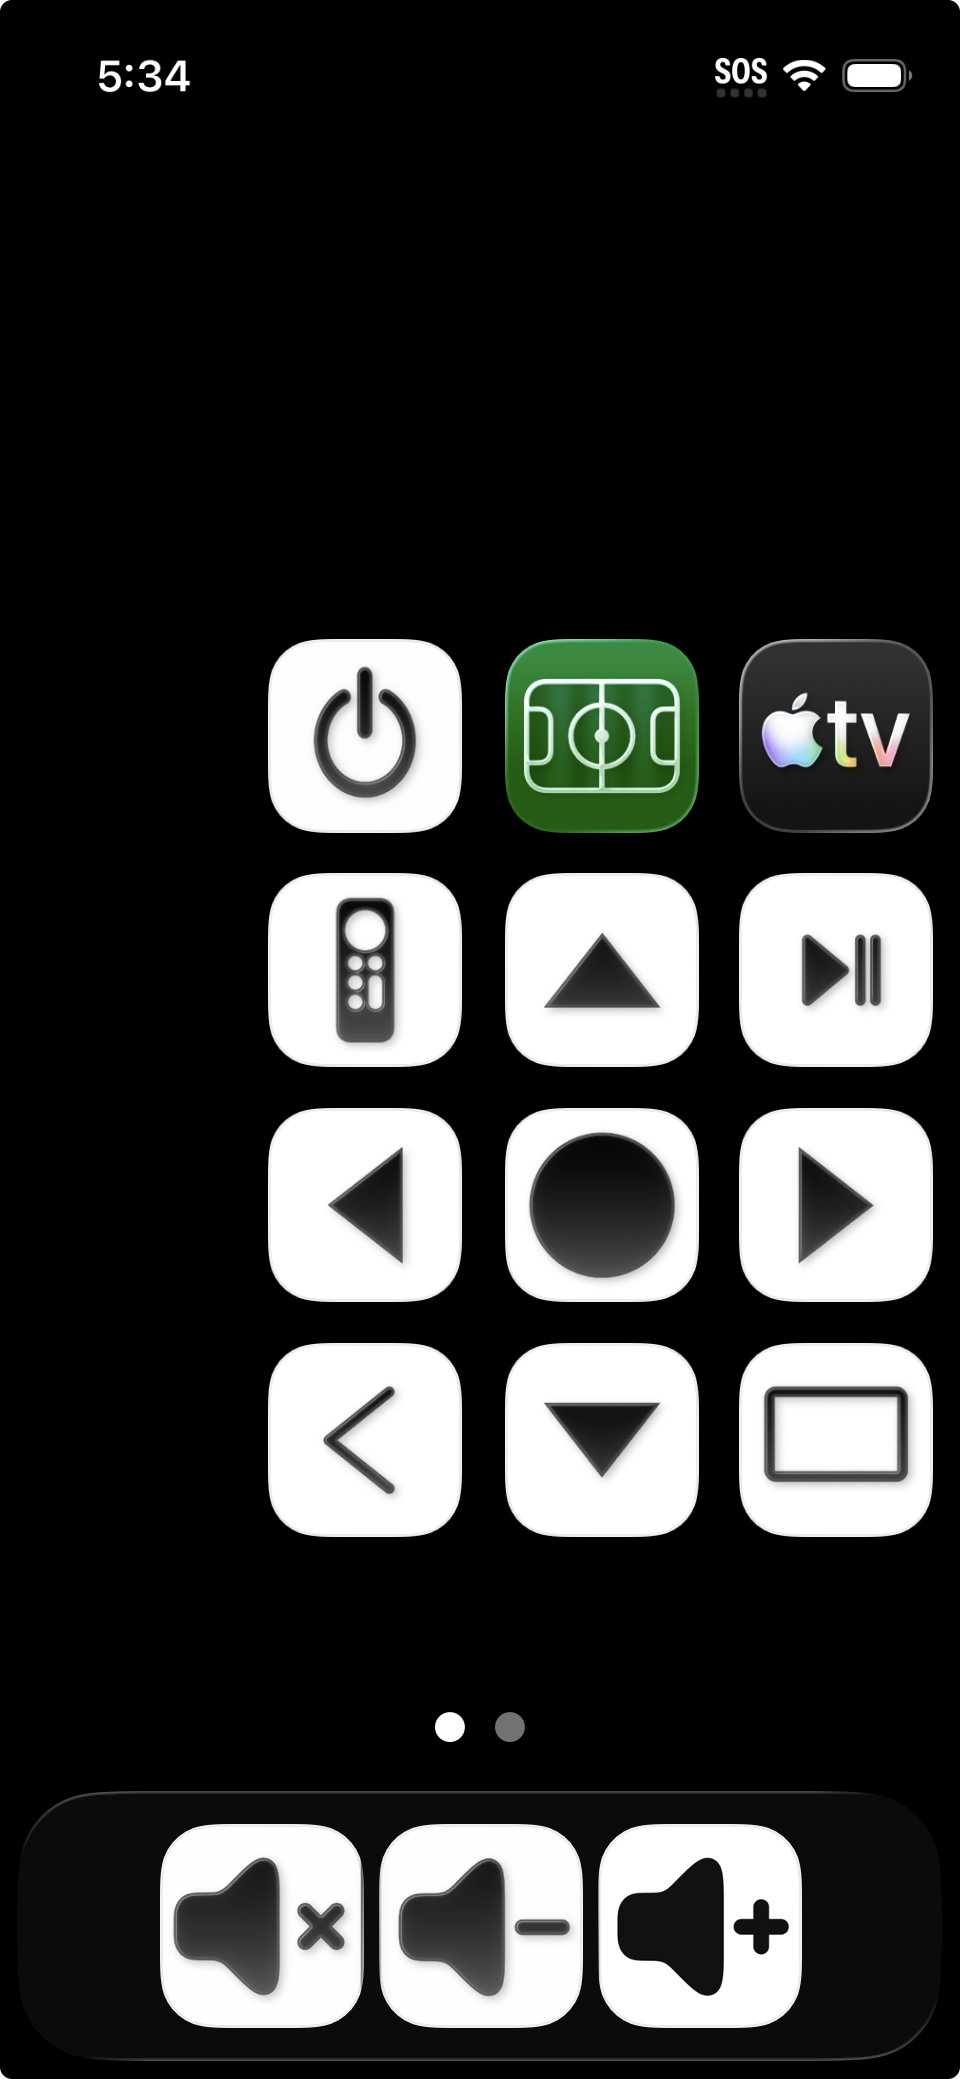
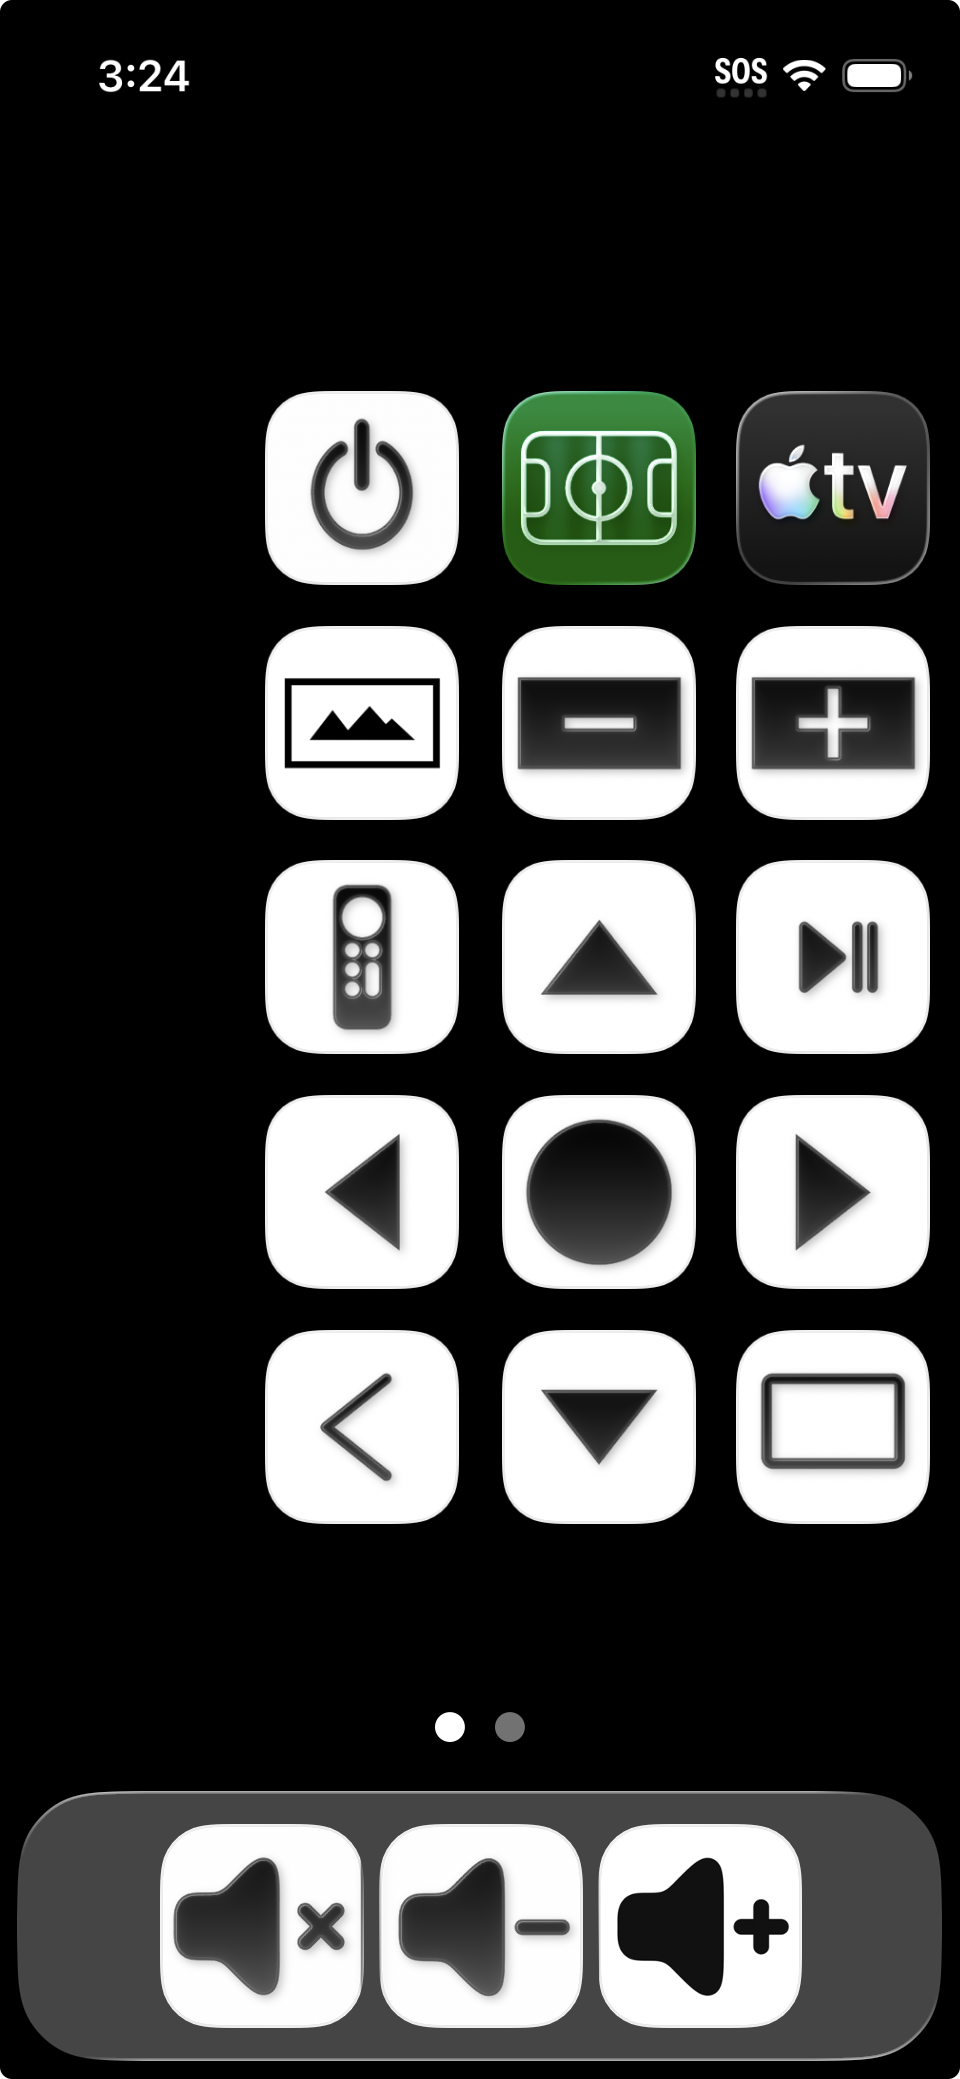
updated docs and shortcuts for latest remote control

diff --git a/README.md b/README.md
@@ -15,45 +15,29 @@ i.e. the TV currently displayed in the selected window.
 # Remote Control
 
 The remote control is an iPhone 13 Mini, which has a home screen with buttons that control
-the J-Tech, the Apple TVs, and the volume. Here is the home screen:
+the J-Tech, the Apple TVs, and the volume:
 
 <img src="remote-control/home-screen.png" width="300">
 
-The **Power** button toggles on/off the power of all the hardware in the system, including
-Apple TVs, Jtech, soundbar, and TV. The **Sports** and **TV** apps are the ordinary iOS
-apps, and are handy for choosing what to watch. From the **TV** app, you can share a show
-to start it playing on the selected TV -- unfortunately, this only works reliably for
-shows, and not for most sports streams, so far.
+The heart of the remote control is nine buttons arranged like a keypad on an Apple TV
+remote: **Up**, **Down**, **Left**, **Right**, **Select**, **Back**, **TV**,
+**Play/Pause**, plus a **Remote** button, which toggles the other eight so that they act
+as an Apple TV remote or as a multiviewer remote. In `Apple TV` mode, the eight buttons
+send the corresponding command to the selected Apple TV. Double tapping **Remote** brings
+up the iOS Remote app for the selected TV. In `Multiviewer` mode, the arrow buttons change
+the selected window, and double tap moves the selected TV, swapping it with the TV the
+arrow points to. **Select** makes the selected TV fullscreen; from there, **Back** returns
+to multiview. **Deactivate TV** hides the selected TV offscreen.  **Activate TV** button
+adds a window displaying the most recently deactivated TV. 
 
-The next nine buttons are like a keypad on an Apple TV remote (**Up**, **Down**, **Left**,
-**Right**, **Select**, **Back**, **TV**, **Play/Pause**), plus a **Remote** button.
-**Remote** toggles the other eight so that they can act as an Apple TV remote or as a
-multiviewer remote.
-
-In Apple TV mode, the selected window has a red border, and the eight buttons behave like
-an Apple TV remote on the selected Apple TV. Double tapping **Remote** brings up the iOS
-Remote app for the selected TV.
-
-In multiview mode, the selected window has a green border. The arrow buttons change the
-selected window, and double tap moves the selected TV, swapping it with the TV the arrow
-points to. **Select** makes the selected TV fullscreen; from there, **Back** returns to
-multiview. In multiview, some of the TVs are visible, and some are hidden (when multiview
-shows fewer than four windows). If there are hidden TVs, the **TV** button adds a window
-displaying one. If there are two or more visible TVs, the **Back** button hides the
-selected TV and removes its window. Double tapping **Back** hides the selected TV and
-starts its screensaver. Finally, **Play/Pause** toggles visibility of the selected
-window's border.
-
-In fullscreen, **Right** and **Left** cycle the fullscreen window through the TVs visible
-in multiview. The **TV** button toggles the visibility of a PIP (picture-in-picture)
-window. In PIP, pressing **Right** or **Left** cycles the PIP window through the TVs
-visible in multiview (except for the fullscreen TV). **Select** swaps the PIP and
-fullscreen windows. Pressing **Up** or **Down** toward the PIP window selects it. Double
-tapping arrows moves the PIP window around the corners.
-
-The bottom row of buttons (**Mute**, **Volume Up**, **Volume Down**) control the volume.
-The multiviewer has a different volume setting for each TV, and automatically adjusts
-volume when switching TVs. Mute is shared across all TVs.
+The lesser-used buttons are at the top. **Power** toggles on/off the power of all the
+hardware in the system, including Apple TVs, Jtech, soundbar, and TV. The **Sports** and
+**TV** apps are the ordinary iOS apps, and are handy for choosing what to watch. From the
+**TV** app, you can share a show to start it playing on the selected TV -- unfortunately,
+this only works reliably for shows, and not for most sports streams, so far. The bottom
+row of buttons (**Mute**, **Volume Up**, **Volume Down**) control the volume. The
+multiviewer has a different volume setting for each TV, and automatically adjusts volume
+when switching TVs. Mute is shared across all TVs.
 
 # Implementation
 

diff --git a/docs/remote-control-user-guide.md b/docs/remote-control-user-guide.md
@@ -4,6 +4,13 @@ This guide is for people using the iPhone remote (home screen buttons) to drive 
 multiviewer. No code knowledge required. The remote controls four Apple TVs, the J-Tech
 multiviewer, and soundbar/TV volume.
 
+In fullscreen, **Right** and **Left** cycle the fullscreen window through the TVs visible
+in multiview. The **TV** button toggles the visibility of a PIP (picture-in-picture)
+window. In PIP, pressing **Right** or **Left** cycles the PIP window through the TVs
+visible in multiview (except for the fullscreen TV). **Select** swaps the PIP and
+fullscreen windows. Pressing **Up** or **Down** toward the PIP window selects it. Double
+tapping arrows moves the PIP window around the corners.
+
 **Borders show the current target:**
 
 - **Green border**: multiview controls (layout/selection/PIP).
